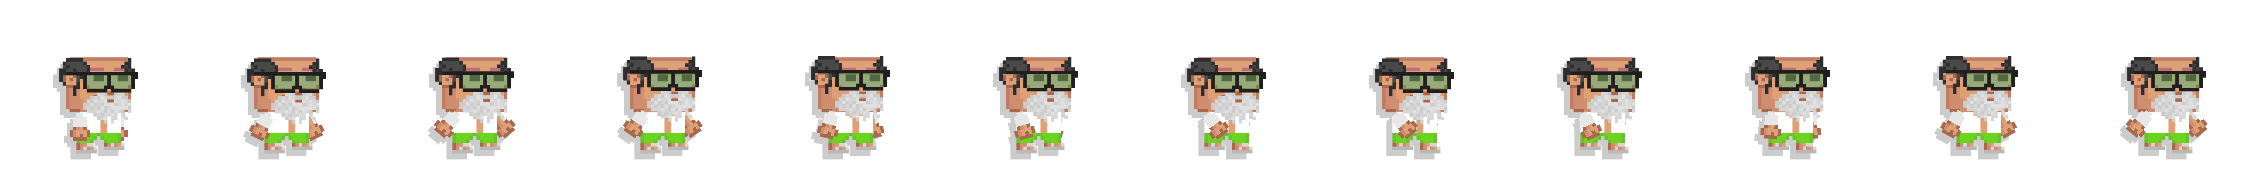
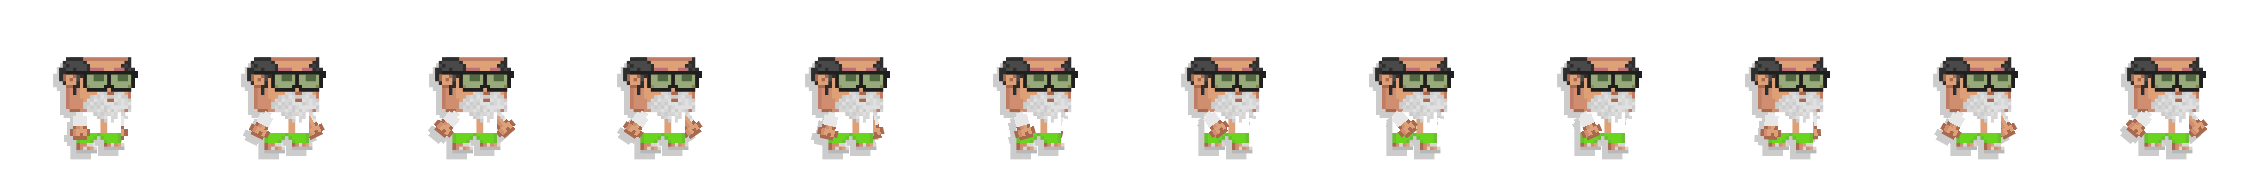
add new effects

diff --git a/www/js/items/rides.js b/www/js/items/rides.js
@@ -730,6 +730,138 @@ function drawLeafTrail(c, ox, oy, list, alpha, front) {
   }
   g.restore();
 }
+// (owner, Nov 23 2026: "leaves going round and round horizontally, like an infinite loop, the long autumn leaf, three
+// colours") leaves flying an ∞ loop lying flat round the glider: x = A sin t, depth = B sin 2t, so they cross in the
+// middle and pass in FRONT of the rider on one half and BEHIND him on the other. The leaf is his long oval autumn leaf
+// (fall_leaves.png box 2) recoloured red / orange / yellow by brightness; each points along the way it flies.
+const LEAF_ORBIT = {
+  box: [132, 0, 63, 74], // the long leaf in assets/autumn/fall_leaves.png
+  n: 6, // leaves on the loop (the three colours twice)
+  ms: 3200, // one trip round the ∞
+  A: 27, // world px from the middle to each end of the loop
+  B: 12, // world px of depth (shown squashed: up = behind, down = in front)
+  up: 7, // world px above the soles where the loop lies
+  len: 9, // world px, the leaf's long side
+  // dark -> light, by the original leaf's brightness
+  ramps: [
+    ['#4a0406', '#8e0e12', '#d8261e', '#ff5a3a', '#ff9a7a'], // red
+    null, // orange: his own colours
+    ['#5a3a00', '#a87404', '#f0b412', '#ffe048', '#fff6a8'], // yellow
+  ],
+  pics: null,
+};
+function leafOrbitPics() {
+  const L = LEAF_ORBIT,
+    im = IMG.autumn_fall_leaves;
+  if (L.pics) return L.pics;
+  if (!im || !im.width) return null;
+  const [bx, by, bw, bh] = L.box;
+  L.pics = L.ramps.map((ramp) => {
+    const cv = document.createElement('canvas');
+    cv.width = bw;
+    cv.height = bh;
+    const x = cv.getContext('2d');
+    x.drawImage(im, bx, by, bw, bh, 0, 0, bw, bh);
+    if (!ramp) return cv;
+    const d = x.getImageData(0, 0, bw, bh),
+      p = d.data,
+      R = ramp.map((h) => [parseInt(h.slice(1, 3), 16), parseInt(h.slice(3, 5), 16), parseInt(h.slice(5, 7), 16)]);
+    for (let i = 0; i < p.length; i += 4) {
+      if (!p[i + 3]) continue;
+      const v = Math.min(0.999, (0.5 * p[i] + 0.4 * p[i + 1] + 0.1 * p[i + 2]) / 255) * (R.length - 1),
+        k = Math.floor(v),
+        f = v - k;
+      for (let ch = 0; ch < 3; ch++) p[i + ch] = Math.round(R[k][ch] + (R[k + 1][ch] - R[k][ch]) * f);
+    }
+    x.putImageData(d, 0, 0);
+    return cv;
+  });
+  return L.pics;
+}
+// (owner, Nov 23 2026 later: "they come along when going left / right; they should only face where he is going, going
+// left just left, and be left behind") standing still: the ∞ loop. Gliding: the loop lets go: its leaves (and a new
+// one every `gap` s) all point the way he glides, drift a little that way much slower than him, so they fall behind
+// and fade (world px: they stay where they were let go). Stopping: the loop fades back in.
+const LEAF_ORBITS = new Map();
+Object.assign(LEAF_ORBIT, { gap: 0.16, life: 1.1, fwd: 0.25 /* share of his speed a loose leaf keeps */, fade: 5 /* loop in / out a second */ });
+function leafOrbitStep(c, fy, face) {
+  const L = LEAF_ORBIT,
+    key = c.id || 'n:' + (c.name || ''),
+    O = LEAF_ORBITS.get(key) || LEAF_ORBITS.set(key, { t: now, m: 0, loose: [], next: 0, k: 0, was: false }).get(key),
+    dt = Math.max(0, Math.min(0.05, (now - O.t) / 1000)),
+    T = LEAF_TRAILS.get(key),
+    vx = T ? T.vx : 0,
+    moving = Math.abs(vx) > 25,
+    cx = c.x + c.w / 2,
+    cy = fy - L.up;
+  O.t = now;
+  if (moving && !O.was) {
+    // let go of the loop where it is now
+    for (const p of leafOrbitSpots(c, cx, cy)) O.loose.push({ x: p.x, y: p.y, col: p.col, dir: face, vx: vx * L.fwd, vy: (Math.random() - 0.5) * 6, age: 0, sz: p.sz, fr: p.depth >= 0 });
+  }
+  O.was = moving;
+  O.m += ((moving ? 1 : 0) - O.m) * Math.min(1, dt * L.fade);
+  if (moving) {
+    O.next -= dt;
+    if (O.next <= 0) {
+      O.next = L.gap;
+      O.loose.push({ x: cx + (Math.random() - 0.5) * L.A * 1.2, y: cy + (Math.random() - 0.5) * L.B, col: O.k++ % 3, dir: face, vx: vx * L.fwd, vy: (Math.random() - 0.5) * 6, age: 0, sz: 0.85 + Math.random() * 0.25, fr: Math.random() < 0.5 });
+    }
+  }
+  for (const p of O.loose) {
+    p.age += dt;
+    p.x += p.vx * dt;
+    p.y += p.vy * dt;
+    p.vx *= 1 - dt * 1.5;
+  }
+  O.loose = O.loose.filter((p) => p.age < L.life).slice(-30);
+  return O;
+}
+// where the loop's leaves are now (world px)
+function leafOrbitSpots(c, cx, cy) {
+  const L = LEAF_ORBIT,
+    T0 = ((now + (c.blink || 0) * 7) / L.ms) * Math.PI * 2,
+    out = [];
+  for (let i = 0; i < L.n; i++) {
+    const t = T0 + (i / L.n) * Math.PI * 2,
+      depth = Math.sin(2 * t);
+    out.push({ x: cx + L.A * Math.sin(t), y: cy + L.B * 0.5 * depth, depth, col: i % 3, sz: 0.85 + 0.15 * depth, ang: Math.atan2(L.B * Math.cos(2 * t), L.A * Math.cos(t)) });
+  }
+  return out;
+}
+// front = true: the leaves on the near half (drawn over the rider), false: the far half
+function drawLeafOrbit(c, ox, oy, fy, alpha, front, face) {
+  const L = LEAF_ORBIT,
+    pics = leafOrbitPics();
+  if (!pics) return;
+  const O = front ? LEAF_ORBITS.get(c.id || 'n:' + (c.name || '')) : leafOrbitStep(c, fy, face);
+  if (!O) return;
+  const cx = c.x + c.w / 2,
+    cy = fy - L.up,
+    [, , bw, bh] = L.box,
+    k = (L.len / Math.hypot(bw, bh)) * 1.15 * Z; // the leaf lies diagonally in its box: its long side ~ the diagonal
+  const leaf = (x, y, ang, sz, col, a) => {
+    g.save();
+    g.globalAlpha *= a;
+    g.translate(Math.round(ox + x * Z), Math.round(oy + y * Z));
+    g.rotate(ang + Math.PI / 4); // his leaf points to the top right in the picture
+    g.scale(k * sz, k * sz);
+    g.drawImage(pics[col], -bw / 2, -bh / 2);
+    g.restore();
+  };
+  g.save();
+  g.imageSmoothingEnabled = false;
+  g.globalAlpha *= alpha;
+  const la = 1 - O.m;
+  if (la > 0.02) for (const p of leafOrbitSpots(c, cx, cy)) if (p.depth >= 0 === front) leaf(p.x, p.y, p.ang, p.sz, p.col, la);
+  // the loose ones: pointing the way he glides (a little tilt from their drift), fading at the end
+  for (const p of O.loose) {
+    if (p.fr !== front) continue;
+    const a = Math.min(1, p.age / 0.08) * Math.min(1, (L.life - p.age) / (L.life * 0.6));
+    leaf(p.x, p.y, (p.dir < 0 ? Math.PI : 0) + Math.sin(p.age * 6 + p.x) * 0.25, p.sz, p.col, a);
+  }
+  g.restore();
+}
 // riding the Leaf Glider: the trail behind, the rider STANDING (no walk / jump poses, nothing cut off), the leaf over
 // his feet
 function drawLeafRider(c, ox, oy, r) {
@@ -755,6 +887,7 @@ function drawLeafRider(c, ox, oy, r) {
   g.restore();
   const trail = leafTrail(c, r, face, fy);
   drawLeafTrail(c, ox, oy, trail, alpha, false); // the petals behind the glider
+  drawLeafOrbit(c, ox, oy, fy, alpha, false, face); // the far half of the ∞ loop (and steps it)
   // the rider, standing still on the leaf
   const walking = c.walking,
     ground = c.ground;
@@ -783,6 +916,7 @@ function drawLeafRider(c, ox, oy, r) {
   g.drawImage(pic.front, -RIDE_AX, -RIDE_AY);
   g.restore();
   drawLeafTrail(c, ox, oy, trail, alpha, true); // and the ones over it
+  drawLeafOrbit(c, ox, oy, fy, alpha, true, face); // the near half, over rider and leaf
   rideArmsNow(); // the arm with the weapon, over the leaf
   if (typeof drawPetOf === 'function') drawPetOf(c, ox, oy, 'small');
   return res;

diff --git a/www/js/core/bootflow.js b/www/js/core/bootflow.js
@@ -303,7 +303,7 @@ function bfSceneStart() {
   if (!wbox.children.length) {
     bfScene = { walkers: [], flyers: [] };
     for (let i = 0; i < BF_WALKERS; i++)
-      bfScene.walkers.push({ el: mk(wbox, 'assets/ui/boot/walk' + i + '.png'), x: 0.06 + (i / BF_WALKERS) * 0.88, dir: Math.random() < 0.5 ? -1 : 1, sp: 0.03 + Math.random() * 0.03, rest: 0, ph: Math.random() * 12 });
+      bfScene.walkers.push({ el: mk(wbox, 'assets/ui/boot/walk' + i + '.png'), x: 0.06 + (i / BF_WALKERS) * 0.88, dir: Math.random() < 0.5 ? -1 : 1, sp: 80 + Math.random() * 30, rest: 0, ph: Math.random() * 12 });
     for (let i = 0; i < BF_FLYERS; i++)
       bfScene.flyers.push({ el: mk(fbox, 'assets/ui/boot/fly' + i + '.png'), x: Math.random(), y: 0.12 + i * 0.13 + Math.random() * 0.05, dir: i % 2 ? -1 : 1, sp: 0.05 + Math.random() * 0.03, ph: Math.random() * 12, bob: Math.random() * 6 });
     bfSceneSaved = bfScene;
@@ -331,8 +331,11 @@ function bfSceneStart() {
     for (const k of bfScene.walkers) {
       if (k.rest > 0) k.rest -= dt;
       else {
-        k.x += k.dir * k.sp * dt * kx;
-        k.ph += dt * 14;
+        // (owner, Nov 23 2026: "the feet should walk like the characters normally walk") `sp` is a game walking
+        // speed (world px a second, a slow walk) and the feet step like in the game (walkRate: WALK_FPS frames a
+        // second at 160): each frame moves the same distance as in a world, so no feet sliding on the spot
+        k.x += (k.dir * k.sp * dt * (wh / (BF_FH / 3))) / W;
+        k.ph += dt * 15 * Math.max(0.5, k.sp / 160);
         if (k.x < 0.03) (k.x = 0.03), (k.dir = 1);
         if (k.x > 0.97) (k.x = 0.97), (k.dir = -1);
         if (Math.random() < dt * 0.12) (k.rest = 0.8 + Math.random() * 1.6), (k.ph = 0);

diff --git a/www/js/core/errors.js b/www/js/core/errors.js
@@ -2,7 +2,7 @@
 // file is easy to spot. Any script error, or a game file that fails to load, shows in a small red box at the bottom
 // of the screen (tap it to close) so problems on a phone can be read and reported.
 // ===== errors =====
-const GAME_BUILD = '2026-11-23 a';
+const GAME_BUILD = '2026-11-23 c';
 console.info('Balbtopia build ' + GAME_BUILD);
 (() => {
   let box = null;

diff --git a/CLAUDE.md b/CLAUDE.md
@@ -225,6 +225,19 @@ list + item_info rows: RE-RUN schema.sql). Sources in `art-source/wear/pixel/sta
     layer round the flame tongues by hand, "do that on all") `rim_mask` cuts pale pixels (blue >= 80 on the golden
     frame) reachable from outside within 10 px, keeps the biggest piece, same cut on all colours: spiky flame edges.
     Re-run it if the originals change.
+- Leaf Glider ∞ loop (build '2026-11-23 b', owner: "leaves going round horizontally, like an infinite loop, the long
+  autumn leaf, three colours"): rides.js `LEAF_ORBIT` / `drawLeafOrbit`: 6 leaves fly a figure-8 lying flat round the
+  glider (x = A sin t, depth = B sin 2t; far half drawn before the rider, near half after the leaf, so they pass in
+  front and behind). The leaf = fall_leaves.png box 2 (the long oval one), red / his orange / yellow (recoloured by
+  brightness onto `ramps`), pointing the way it flies. All three Leaf Gliders get it.
+  - Build c (owner: "they come along when going left / right; only where he's going, then left behind"): only
+    STANDING shows the loop. Gliding (trail speed |vx| > 25) the loop lets go: its leaves + a new one every 0.16 s
+    point the way he glides, keep 25% of his speed (slowing), so they fall behind and fade in 1.1 s (world px,
+    `LEAF_ORBITS` per player, `leafOrbitStep`). Stopping fades the loop back in.
+- Boot / login walkers (build c, owner: "the wearables go up and down, keep them still; the feet walk like the
+  characters normally walk"): walk0-5.png made again with WALK_BOB zeroed (head and clothes stay level, only the
+  legs stride); bootflow.js walkers move at a game walking speed (`sp` 80-110 world px/s, scaled by the sheet's 3x)
+  with the feet at walkRate's pace, so a step covers the same ground as in a world (no feet sliding).
 - Deleted (gone.js + schema gone list): Cloud Ride `ride_cloud` and Cloud Ring `cloud_ring` (its code in rides.js /
   wrist.js stays unused).
 
